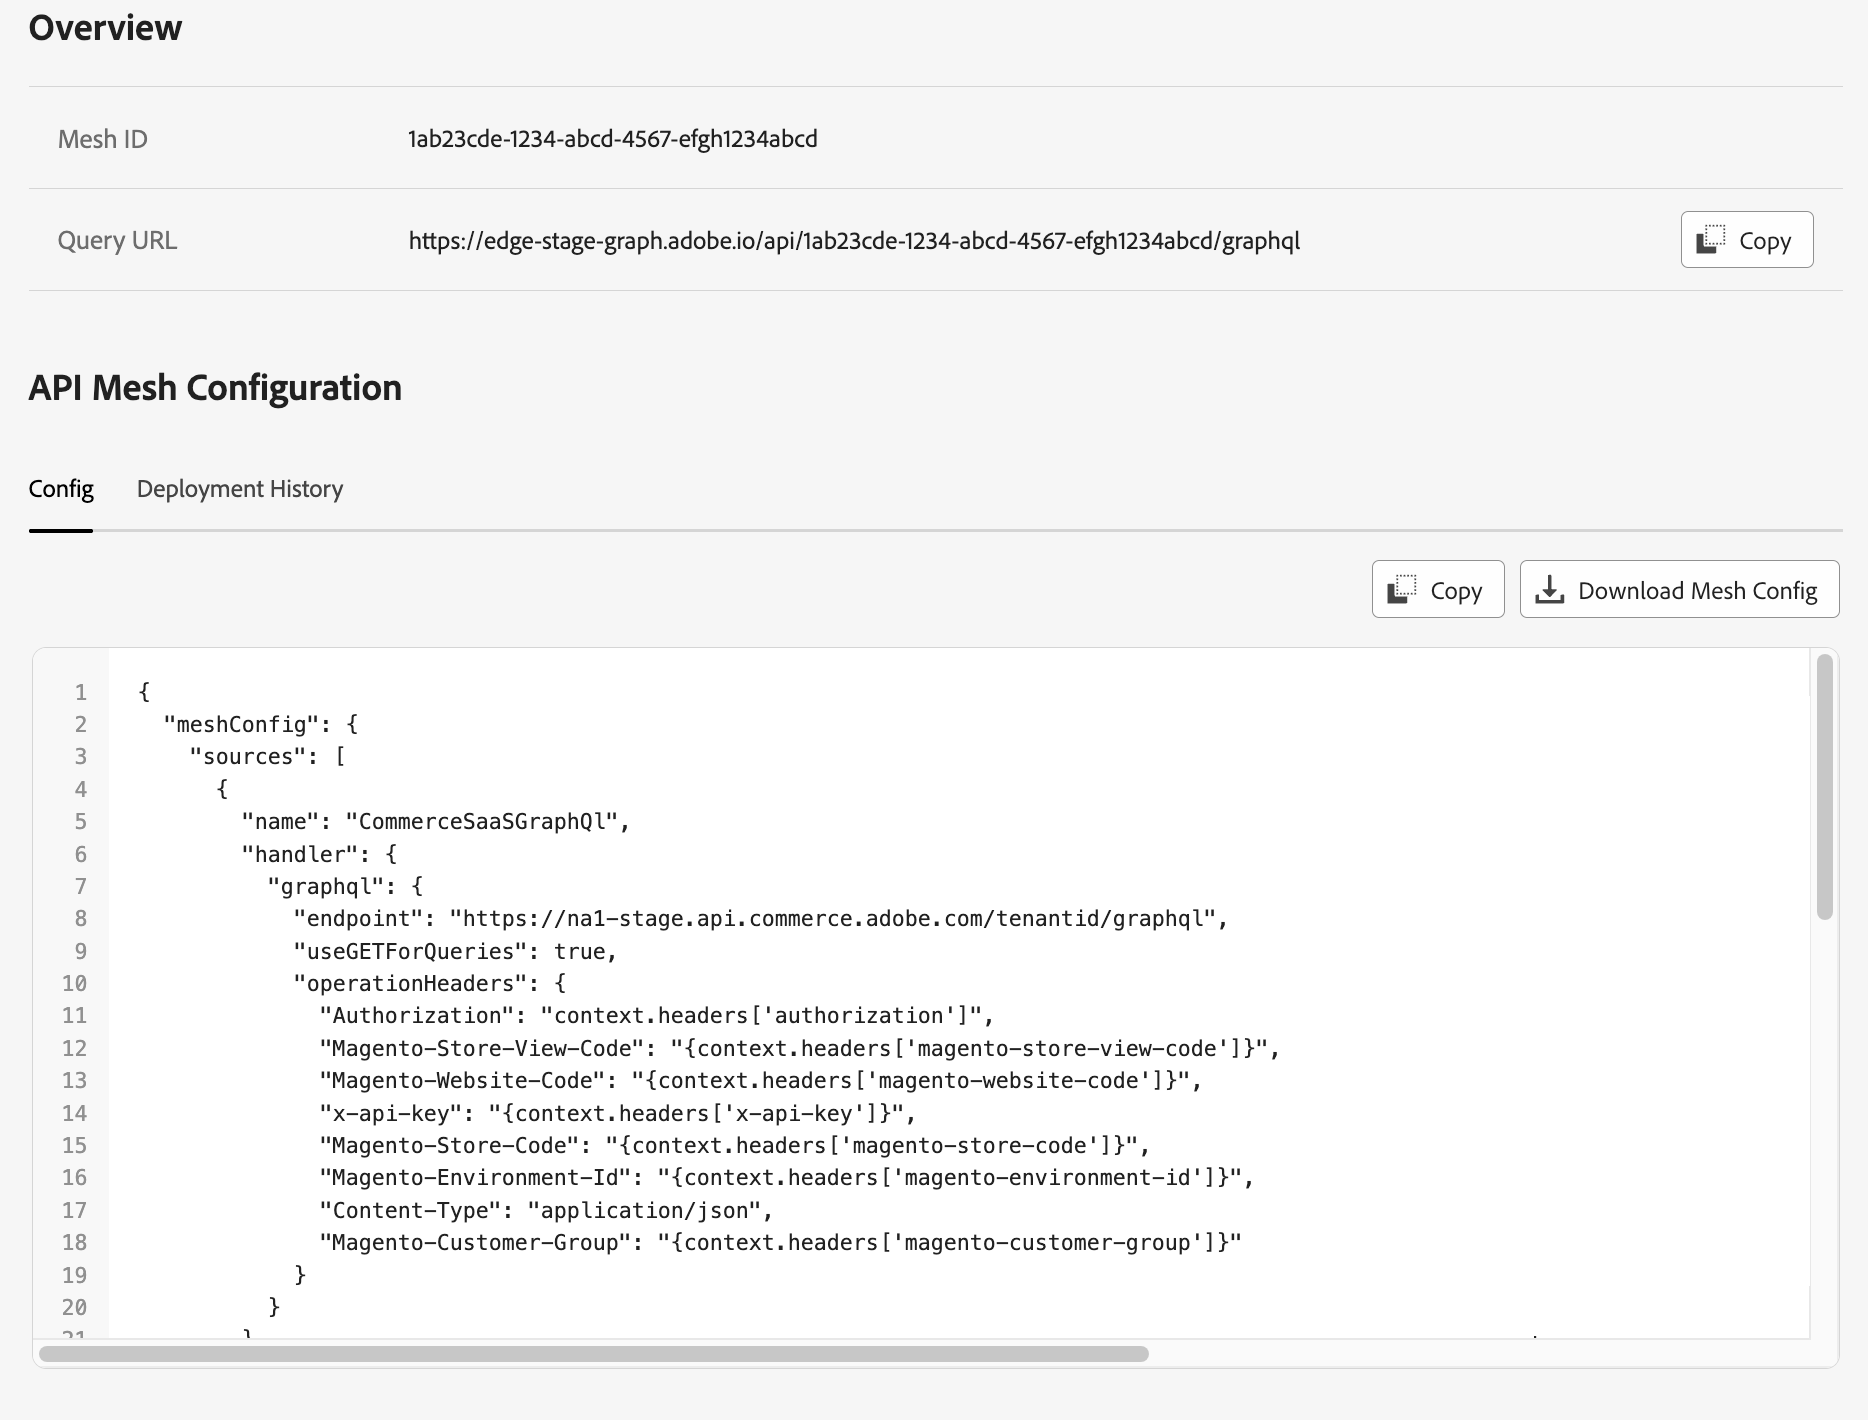
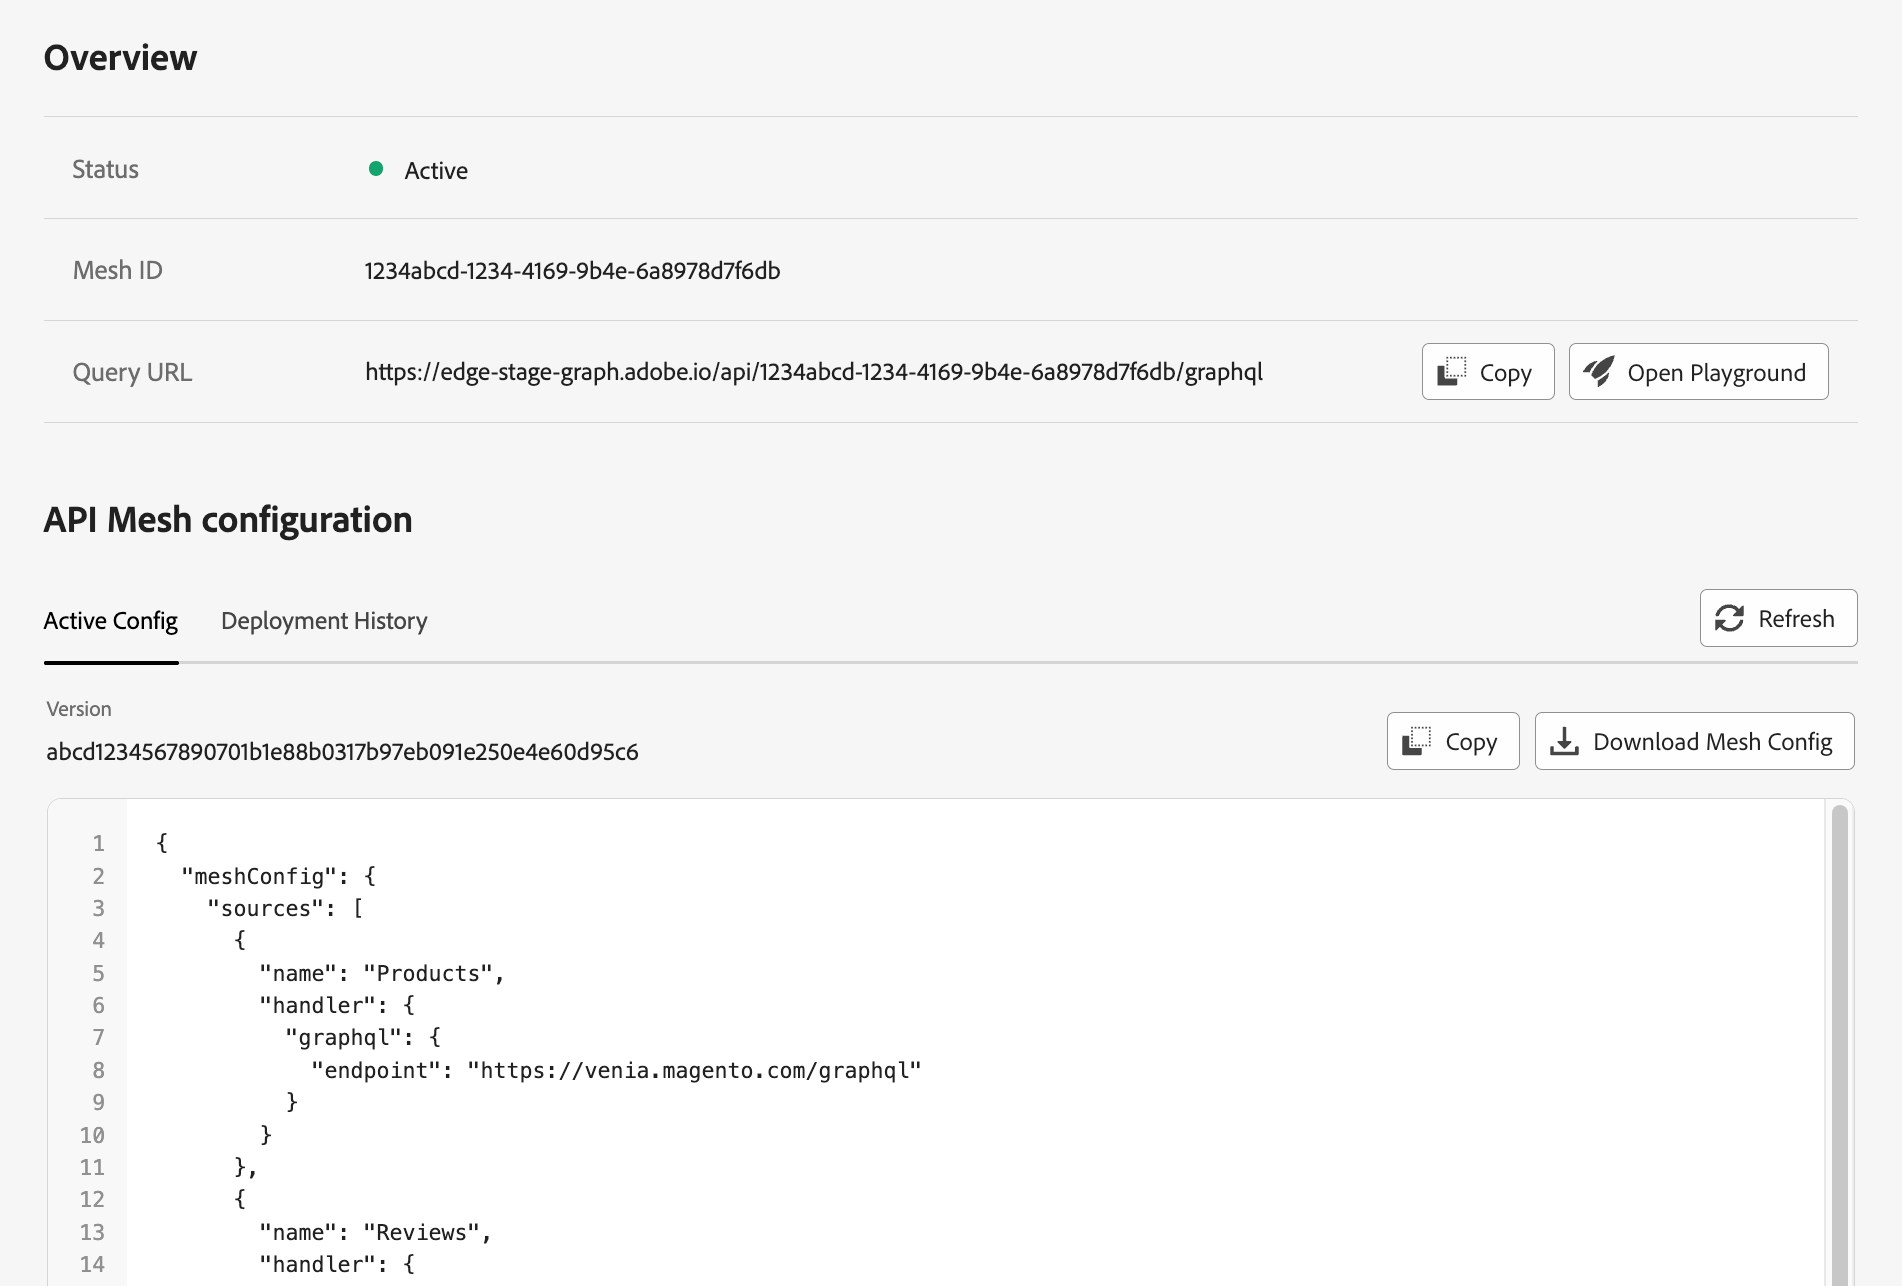
update interface

diff --git a/src/pages/mesh/basic/create-mesh.md b/src/pages/mesh/basic/create-mesh.md
@@ -321,6 +321,12 @@ To download a copy of your mesh file, click the **Download Mesh Schema** button 
 
 On the **Active Config** tab, you can view the mesh configuration for the currently active mesh. If you have not successfully deployed a mesh, the **Config** tab displays the latest mesh configuration file that you uploaded.
 
+### API playground
+
+The developer console user interface provides a GraphQL Playground for testing your mesh. Click the **Open Playground** button to open a Yoga GraphiQL client in your browser.
+
+If you have introspection enabled, you can use the **Documentation Explorer** to view the schema for your mesh.
+
 ### Deployment history
 
 On the Deployment History tab, you can view the history of your mesh deployments.
@@ -334,5 +340,5 @@ The deployment history includes the following information:
 - **Deployed On** - The time and date when this version of the mesh was created or updated.
 - **Deployed By** - The user who deployed this mesh version.
 - **Status** - The deployment status, such as`Success`, `Provisioning`, or `Failed`.
-- **Logs** - An icon that you can click to download any errors or other exceptions that occurred when deploying the mesh. If there are no errors, the icon will not appear.
+- **Error Logs** - An icon that you can click to download any errors or other exceptions that occurred when deploying the mesh. If there are no errors, the icon will not appear.
 - **Config** - An icon that you can click to download the mesh configuration file for that specific deployment.
